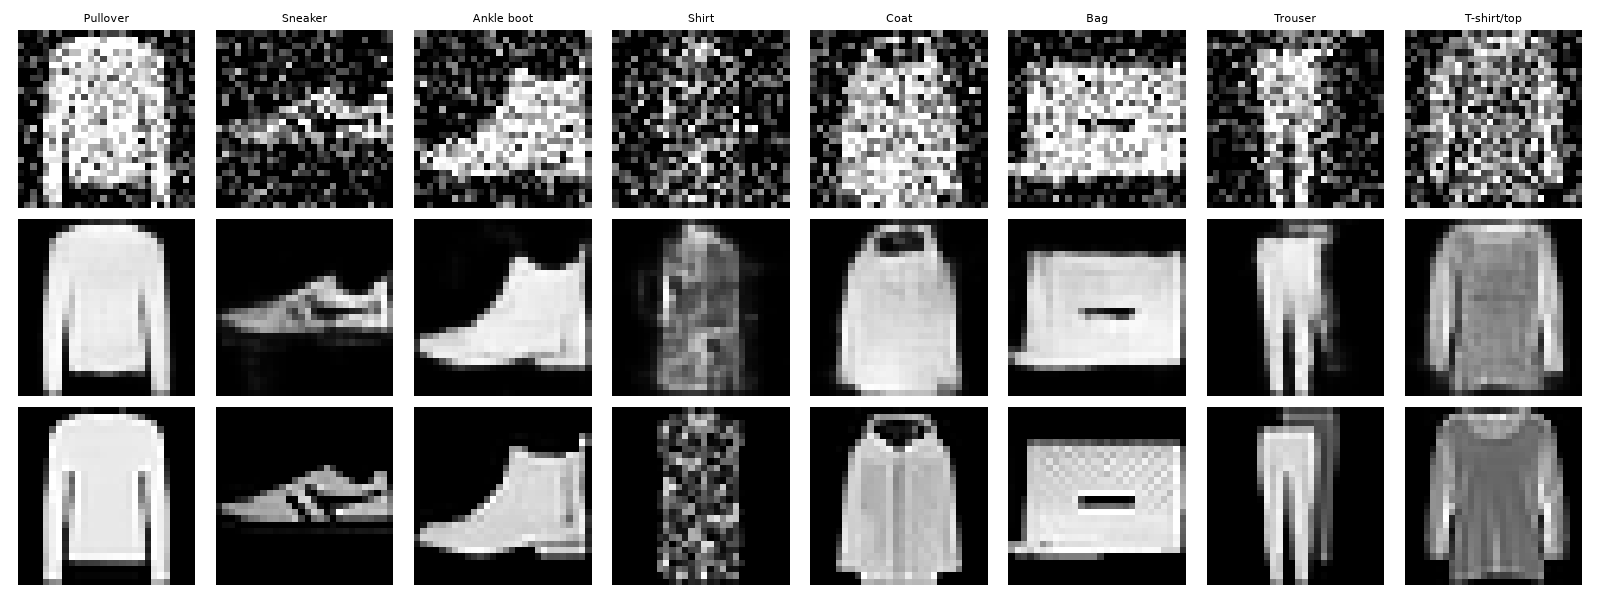
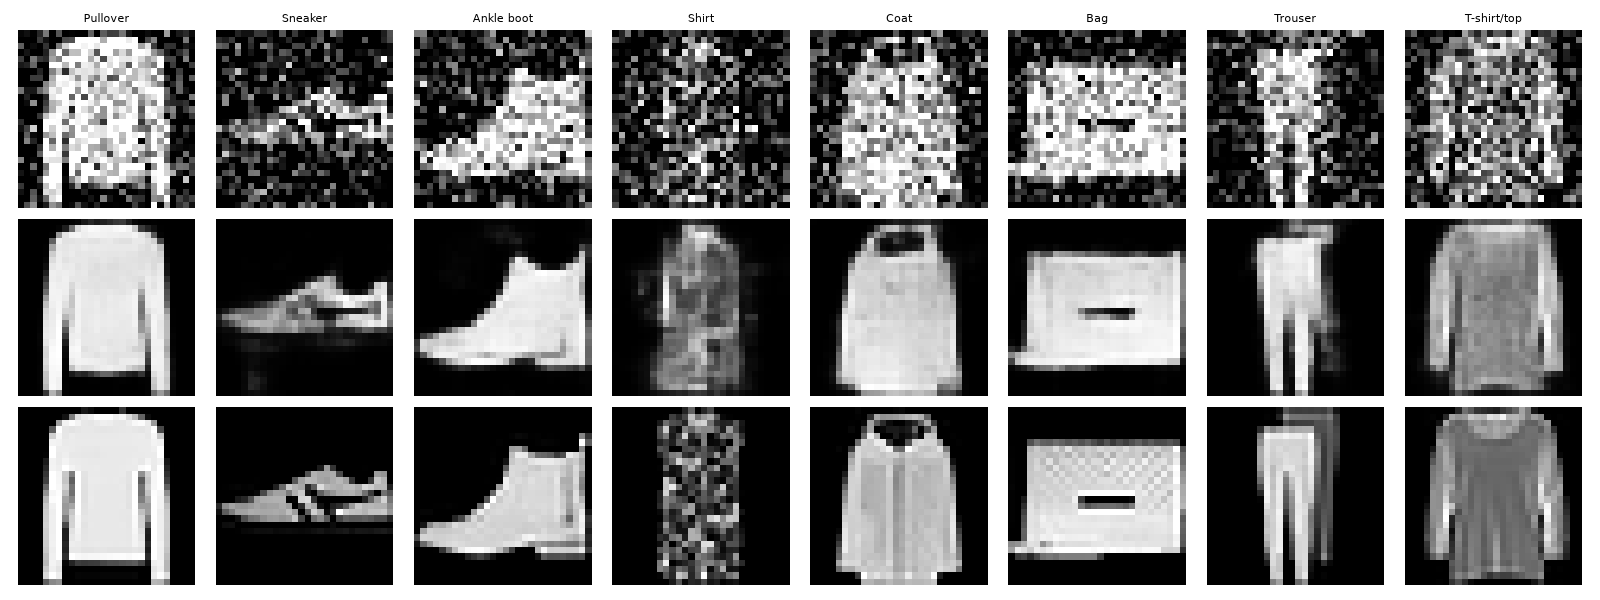
Improve denoising plot display

diff --git a/src/evaluate.py b/src/evaluate.py
@@ -5,6 +5,10 @@ judged by how close the reconstruction is to the clean original, both
 numerically (RMSE/PSNR) and visually.
 """
 
+from bleach import clean
+from matplotlib import axes
+from narwhals import col
+from pyparsing import col
 import numpy as np
 from tensorflow import keras
 
@@ -34,10 +38,10 @@ def plot_examples(noisy, clean, reconstructed, labels, n: int = 8):
     fig, axes = plt.subplots(3, n, figsize=(2 * n, 6))
 
     for col, i in enumerate(idx):
-        axes[0, col].imshow(noisy[i].squeeze(), cmap="gray")
+        axes[0, col].imshow(noisy[i].squeeze(), cmap="gray", interpolation="nearest")
         axes[0, col].set_title(CLASS_NAMES[labels[i]], fontsize=8)
-        axes[1, col].imshow(reconstructed[i].squeeze(), cmap="gray")
-        axes[2, col].imshow(clean[i].squeeze(), cmap="gray")
+        axes[1, col].imshow(reconstructed[i].squeeze(), cmap="gray", interpolation="nearest")
+        axes[2, col].imshow(clean[i].squeeze(), cmap="gray", interpolation="nearest")
         for row in range(3):
             axes[row, col].axis("off")
 
